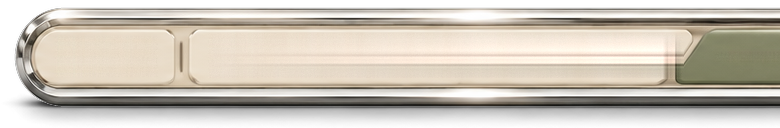
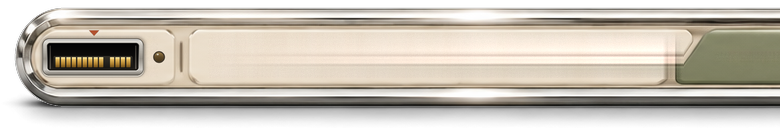
Retro Futurism taskbar: as large as the reference, a real cartridge port, a smooth battery bar
The bar at 0.78 of the mock-up (its tube about 76 px), 4 % in from each
side, as in the user's reference. The port is painted into the picture: a
slot in a steel bezel let into the plate, an edge connector with gold
fingers, the insert mark and a lamp lens the shell lights. The battery is
one smooth bar.

Claude-Session: https://claude.ai/code/session_015VvhJ21Y4bjWDEYJNoFXMP

Changed region(s): [[0.0308, 0.2188, 0.2154, 0.625]]

diff --git a/themes/retro-futurism/home/.config/quickshell/modules/Taskbar.qml b/themes/retro-futurism/home/.config/quickshell/modules/Taskbar.qml
@@ -33,7 +33,7 @@ PanelWindow {
     // ---- the mock-up's pixels to the screen. The pieces are 128 tall (the
     // mock-up's y 312 to 440; the tube itself 320 to 418), the left one
     // from x 20 to 800, the right one from 900 to 2152.
-    readonly property real side: 14
+    readonly property real side: Math.round(width * 0.04)     // as in the reference: 4 % each side
     readonly property real s: Math.min(Theme.taskbarScale, (width - 2 * side) / 2032)
     readonly property real u: s / 0.6                      // for things sized by eye at 0.6
     readonly property real leftX: side - 15 * s            // (the piece has 15 px of air before the tube)
@@ -77,70 +77,39 @@ PanelWindow {
         color: "#3a352d"; opacity: 0.75
     }
 
-    // ======== the port: where the app cartridges go in (plate 52-195)
+    // ======== the port: where the app cartridges go in (plate 52-195). The
+    // slot itself is in the picture; here its lamp (the lens at 179,369)
+    // lights while the launcher is open, and a click opens it.
     Item {
         id: port
         x: bar.lx(52); y: bar.my(339)
         width: 143 * bar.s; height: 58 * bar.s
         readonly property bool lit: Panels.open === "launcher"
-
-        Item {
-            id: slotBox
-            anchors.centerIn: parent
-            anchors.horizontalCenterOffset: -8 * bar.u
-            width: 54; height: 24
-            scale: bar.u
-            // the insert mark over the slot, as on the Kasetto launcher
-            Canvas {
-                x: 22; y: 0; width: 10; height: 6
-                onPaint: {
-                    const c = getContext("2d"); c.reset();
-                    c.beginPath(); c.moveTo(0, 0); c.lineTo(10, 0); c.lineTo(5, 5); c.closePath();
-                    c.fillStyle = bar.rust; c.fill();
-                }
-            }
-            // the slot: a wide, shallow mouth, gold contacts along its floor
-            Rectangle {
-                y: 8; width: 54; height: 15; radius: 3
-                color: "#1b1916"
-                border.width: 1
-                border.color: portMouse.containsMouse ? "#9c8a63" : "#8f8270"
-                Rectangle {
-                    anchors.fill: parent; anchors.margins: 1.5; radius: 2
-                    gradient: Gradient {
-                        GradientStop { position: 0.0; color: "#070706" }
-                        GradientStop { position: 1.0; color: "#2a2620" }
-                    }
-                }
-                Row {
-                    anchors.horizontalCenter: parent.horizontalCenter
-                    anchors.bottom: parent.bottom; anchors.bottomMargin: 2.5
-                    spacing: 2.4
-                    Repeater {
-                        model: 10
-                        Rectangle {
-                            width: 2.6; height: 5; radius: 0.6
-                            gradient: Gradient {
-                                GradientStop { position: 0.0; color: port.lit ? "#ffe2a0" : "#d8b45e" }
-                                GradientStop { position: 1.0; color: "#8a6a2a" }
-                            }
-                        }
-                    }
-                }
-            }
-        }
-        // the lamp: lit while the launcher is open
+        // the bezel catches a little light under the pointer
         Rectangle {
-            x: bar.lx(170) - port.x; y: bar.my(373) - port.y - height / 2
-            width: 6 * bar.u; height: width; radius: width / 2
-            color: port.lit ? bar.amber : (portMouse.containsMouse ? "#a57a3c" : "#6b5a40")
-            border.width: 1; border.color: "#3b2f20"
+            x: (63 - 52) * bar.s; y: (351 - 339) * bar.s
+            width: 100 * bar.s; height: 36 * bar.s; radius: 6 * bar.s
+            color: "transparent"
+            border.width: Math.max(1, 1.4 * bar.s); border.color: "#fff6dc"
+            opacity: portMouse.containsMouse && !port.lit ? 0.55 : 0
+            Behavior on opacity { NumberAnimation { duration: 140 } }
+        }
+        // the lamp, lit: an amber lens and its glow
+        Rectangle {
+            x: (179 - 52) * bar.s - width / 2; y: (369 - 339) * bar.s - height / 2
+            width: 9.2 * bar.s; height: width; radius: width / 2
+            color: bar.amber
+            opacity: port.lit ? 1 : 0
+            Behavior on opacity { NumberAnimation { duration: 180 } }
             Rectangle {
                 anchors.centerIn: parent
-                width: parent.width * 2.6; height: width; radius: width / 2
-                color: bar.amber
-                opacity: port.lit ? 0.28 : 0
-                Behavior on opacity { NumberAnimation { duration: 180 } }
+                width: parent.width * 2.8; height: width; radius: width / 2
+                color: bar.amber; opacity: 0.25
+            }
+            Rectangle {   // the lens's glint
+                x: parent.width * 0.2; y: parent.height * 0.12
+                width: parent.width * 0.32; height: width * 0.8; radius: width / 2
+                color: "#fffbe8"; opacity: 0.85
             }
         }
         MouseArea {
@@ -330,43 +299,26 @@ PanelWindow {
         }
     }
     Sep { x: bar.rx(1833) }
-    // battery: four cells, a bolt while charging (x 1888)
+    // battery: one smooth bar, as full as the battery (x 1888); amber
+    // while charging, rust when low
     Item {
         id: batt
-        width: 36; height: 18; scale: bar.u
+        width: 38; height: 18; scale: bar.u
         x: bar.rx(1888) - width / 2; y: bar.my(368) - height / 2
         visible: Power.present
-        readonly property int cells: Math.max(Power.percent > 0 ? 1 : 0, Math.ceil(Power.percent / 25))
+        readonly property color tone: Power.low ? bar.rust : Power.charging ? "#c98a2c" : bar.ink
         Rectangle {
-            width: 32; height: 18; radius: 3
-            color: "transparent"; border.width: 2; border.color: Power.low ? bar.rust : bar.ink
-            Row {
-                x: 4; y: 4; spacing: 2
-                Repeater {
-                    model: 4
-                    Rectangle {
-                        required property int index
-                        width: 4.6; height: 10; radius: 0.5
-                        color: Power.low ? bar.rust : bar.ink
-                        opacity: index < batt.cells ? 1 : 0.15
-                    }
-                }
+            width: 34; height: 18; radius: 5
+            color: "transparent"; border.width: 1.8; border.color: bar.ink
+            Rectangle {
+                x: 3.5; y: 3.5
+                height: parent.height - 7; radius: 2.5
+                width: Math.max(height, (parent.width - 7) * Power.percent / 100)
+                color: batt.tone
+                Behavior on width { NumberAnimation { duration: 400; easing.type: Easing.OutCubic } }
             }
         }
-        Rectangle { x: 32; y: 6; width: 3; height: 6; radius: 1; color: Power.low ? bar.rust : bar.ink }
-        Canvas {
-            // the charging bolt, amber, edged in ink
-            x: 6; y: -2; width: 20; height: 22
-            visible: Power.charging
-            onPaint: {
-                const c = getContext("2d"); c.reset();
-                c.beginPath();
-                c.moveTo(11.5, 1); c.lineTo(4, 12.5); c.lineTo(9.5, 12.5);
-                c.lineTo(8, 21); c.lineTo(16, 9); c.lineTo(10.5, 9); c.closePath();
-                c.fillStyle = bar.amber; c.fill();
-                c.lineWidth = 1.4; c.strokeStyle = bar.ink; c.stroke();
-            }
-        }
+        Rectangle { x: 35; y: 6; width: 2.6; height: 6; radius: 1.3; color: bar.ink }
         MouseArea {
             anchors.fill: parent; anchors.margins: -8
             cursorShape: Qt.PointingHandCursor

diff --git a/themes/retro-futurism/home/.config/quickshell/theme/Theme.qml b/themes/retro-futurism/home/.config/quickshell/theme/Theme.qml
@@ -18,8 +18,8 @@ Singleton {
     readonly property real hair: 1                     // line weight
 
     readonly property int barTop: 0                   // (no bar at the top)
-    readonly property real taskbarScale: 0.6           // the taskbar: the mock-up at this size
-    readonly property int barBottom: 77               // ... and its height (128 x 0.6)
+    readonly property real taskbarScale: 0.78          // the taskbar: the mock-up at this size
+    readonly property int barBottom: 100              // ... and its height (128 x 0.78)
     readonly property int edge: 34                     // panels' distance from the screen edge
     readonly property int columnWidth: 364             // the right column
 

diff --git a/themes/retro-futurism/tools/make_taskbar.py b/themes/retro-futurism/tools/make_taskbar.py
@@ -33,6 +33,83 @@ erase(735, 364, 1302, 374)        # the band's red line
 erase(1306, 347, 1628, 389)       # /// CYPHERUM | A
 erase(1682, 344, 2078, 392)       # Wi-Fi, volume, battery, the time
 
+# ---- the cartridge port, painted into the left plate (x 52-195, y 339-397):
+# a slot in a steel bezel let into the plate, an edge connector with gold
+# fingers at the back, the red insert mark over it, and the lamp's lens
+from PIL import ImageFilter
+def paint_port():
+    X0, Y0, X1, Y1 = 52, 339, 195, 397
+    Z = 6                                              # drawn large, then brought down
+    w, h = (X1 - X0) * Z, (Y1 - Y0) * Z
+    base = Image.fromarray(np.clip(a[Y0:Y1, X0:X1], 0, 255).astype('uint8')).resize((w, h), Image.BICUBIC).convert('RGBA')
+    P = lambda x, y: (round((x - X0) * Z), round((y - Y0) * Z))
+    def layer(): return Image.new('RGBA', (w, h), (0, 0, 0, 0))
+    def rr(img, box, r, fill):
+        d = ImageDraw.Draw(img); d.rounded_rectangle([*P(box[0], box[1]), *P(box[2], box[3])], r * Z, fill=fill)
+    def vgrad(box, stops, r):
+        g = layer(); x0, y0 = P(box[0], box[1]); x1, y1 = P(box[2], box[3])
+        gr = Image.new('RGBA', (x1 - x0, y1 - y0)); gd = ImageDraw.Draw(gr)
+        for yy in range(y1 - y0):
+            t = yy / max(1, y1 - y0 - 1)
+            for i in range(len(stops) - 1):
+                if stops[i][0] <= t <= stops[i + 1][0]:
+                    k = (t - stops[i][0]) / max(1e-6, stops[i + 1][0] - stops[i][0])
+                    c = tuple(round(stops[i][1][j] * (1 - k) + stops[i + 1][1][j] * k) for j in range(4)); break
+            gd.line([(0, yy), (x1 - x0, yy)], fill=c)
+        m = Image.new('L', gr.size, 0); ImageDraw.Draw(m).rounded_rectangle([0, 0, gr.size[0] - 1, gr.size[1] - 1], r * Z, fill=255)
+        g.paste(gr, (x0, y0), m); return g
+    bx0, by0, bx1, by1 = 63, 351, 163, 387            # the bezel
+    # let into the plate: shade above, a light lip below
+    sh = layer(); rr(sh, (bx0 - 1.5, by0 - 1.5, bx1 + 1.5, by1 + 0.5), 7, (70, 52, 30, 120))
+    base.alpha_composite(sh.filter(ImageFilter.GaussianBlur(1.6 * Z)))
+    lip = layer(); rr(lip, (bx0 - 1, by0 + 1, bx1 + 1, by1 + 1.6), 7, (255, 250, 238, 200))
+    base.alpha_composite(lip.filter(ImageFilter.GaussianBlur(0.5 * Z)))
+    # the steel bezel
+    base.alpha_composite(vgrad((bx0 - 0.5, by0 - 0.5, bx1 + 0.5, by1 + 0.5), [(0, (60, 56, 50, 255)), (1, (60, 56, 50, 255))], 6.5))
+    base.alpha_composite(vgrad((bx0, by0, bx1, by1), [(0, (238, 236, 230, 255)), (0.18, (196, 192, 184, 255)),
+        (0.55, (150, 145, 136, 255)), (0.85, (206, 202, 195, 255)), (1, (120, 115, 106, 255))], 6))
+    # brushed lines across the steel
+    br = layer(); bd = ImageDraw.Draw(br); rng2 = np.random.default_rng(9)
+    for i in range(160):
+        y = rng2.uniform(by0 * Z, by1 * Z) - Y0 * Z; x = rng2.uniform(0, w)
+        bd.line([(x, y), (x + rng2.uniform(30, 160), y)], fill=(255, 255, 255, int(rng2.uniform(8, 26))), width=1)
+    bm = layer(); rr(bm, (bx0, by0, bx1, by1), 6, (0, 0, 0, 255))
+    br.putalpha(Image.fromarray(np.minimum(np.asarray(br)[..., 3], np.asarray(bm)[..., 3])))
+    base.alpha_composite(br)
+    # the mouth: deep, darkest at the top where the lip shades it
+    cx0, cy0, cx1, cy1 = bx0 + 4.5, by0 + 4.5, bx1 - 4.5, by1 - 4.5
+    base.alpha_composite(vgrad((cx0 - 0.6, cy0 - 0.6, cx1 + 0.6, cy1 + 0.6), [(0, (40, 38, 34, 255)), (1, (225, 222, 215, 255))], 3.2))
+    base.alpha_composite(vgrad((cx0, cy0, cx1, cy1), [(0, (3, 3, 3, 255)), (0.45, (12, 11, 10, 255)), (1, (34, 31, 27, 255))], 2.8))
+    # guide rails inside, either side
+    for gx in (cx0 + 2.2, cx1 - 3.4):
+        base.alpha_composite(vgrad((gx, cy0 + 2, gx + 1.2, cy1 - 1.5), [(0, (70, 66, 60, 200)), (1, (110, 104, 95, 220))], 0.5))
+    # the edge connector at the back: a dark block, gold fingers on it
+    kx0, ky0, kx1, ky1 = cx0 + 6, cy0 + 12.5, cx1 - 6, cy1 - 2.2
+    base.alpha_composite(vgrad((kx0, ky0, kx1, ky1), [(0, (52, 48, 40, 255)), (1, (24, 22, 19, 255))], 1))
+    n = 14; gap = 1.25; fw = (kx1 - kx0 - 4 - gap * (n - 1)) / n
+    for i in range(n):
+        if i == 9: continue                                 # the key
+        fx = kx0 + 2 + i * (fw + gap)
+        base.alpha_composite(vgrad((fx, ky0 + 1.2, fx + fw, ky1 - 1.0), [(0, (255, 236, 168, 255)), (0.25, (226, 182, 88, 255)),
+            (0.7, (170, 124, 44, 255)), (1, (110, 78, 26, 255))], 0.35))
+    # the light along the bezel's upper edge
+    hl = layer(); hd = ImageDraw.Draw(hl)
+    hd.rounded_rectangle([*P(bx0 + 3, by0 + 0.6), *P(bx1 - 3, by0 + 1.4)], Z, fill=(255, 255, 255, 150))
+    base.alpha_composite(hl.filter(ImageFilter.GaussianBlur(0.4 * Z)))
+    # the insert mark, printed on the plate above
+    mk = layer(); ImageDraw.Draw(mk).polygon([P(109, 342.3), P(119, 342.3), P(114, 347.6)], fill=(178, 81, 47, 255))
+    base.alpha_composite(mk.filter(ImageFilter.GaussianBlur(0.15 * Z)))
+    # the lamp: a small lens in a dark ring (the shell lights it)
+    lx, ly, lr = 179, 369, 4.6
+    ring = layer(); ImageDraw.Draw(ring).ellipse([*P(lx - lr - 1.2, ly - lr - 1.2), *P(lx + lr + 1.2, ly + lr + 1.2)], fill=(70, 60, 46, 255))
+    base.alpha_composite(ring)
+    base.alpha_composite(vgrad((lx - lr, ly - lr, lx + lr, ly + lr), [(0, (150, 120, 70, 255)), (0.5, (96, 74, 40, 255)), (1, (70, 54, 30, 255))], lr))
+    gl = layer(); ImageDraw.Draw(gl).ellipse([*P(lx - 2.6, ly - 3.6), *P(lx - 0.2, ly - 1.6)], fill=(255, 255, 240, 170))
+    base.alpha_composite(gl.filter(ImageFilter.GaussianBlur(0.3 * Z)))
+    small = np.asarray(base.convert('RGB').resize((X1 - X0, Y1 - Y0), Image.LANCZOS)).astype(float)
+    a[Y0:Y1, X0:X1] = small
+paint_port()
+
 # the bar's own shape, and its shadow on the white below
 X0, Y0, X1, Y1 = 20, 312, 2152, 440
 S = 4

diff --git a/themes/retro-futurism/README.md b/themes/retro-futurism/README.md
@@ -39,7 +39,9 @@ Gadgets in steel, cream and sage with e-ink screens.
   are, the red line under the one in view; click, or scroll to step); the
   sage band with the window in use, CASSETTE OS and the Arch logo (click:
   the power menu); and Wi-Fi (click: nmtui), volume (scroll; click mutes),
-  battery (click: the next power profile) and the time.
+  battery (one smooth bar; click: the next power profile) and the time.
+  The cartridge port is painted into the picture by the tool (a slot in a
+  steel bezel, gold fingers at the back); the shell lights its lamp.
 
 Everything else (launcher, panels, power menu) is still Viewfinder's,
 copied into this box, until each part gets its own design from the mock-ups
